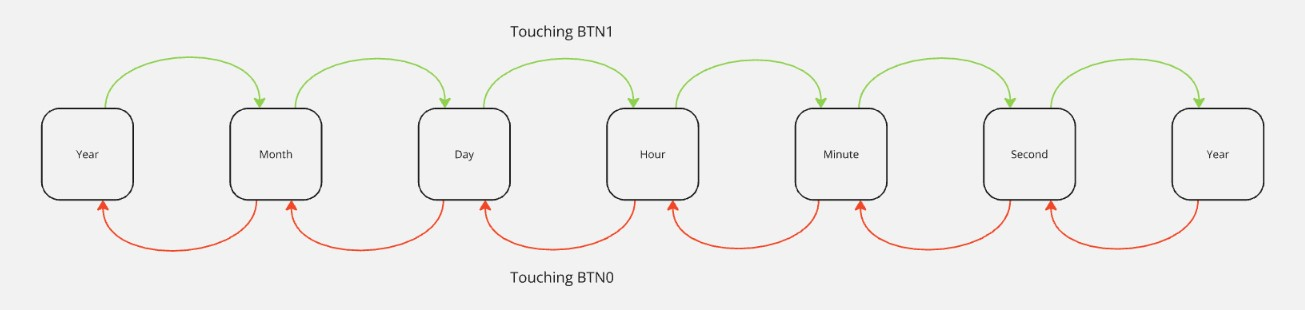
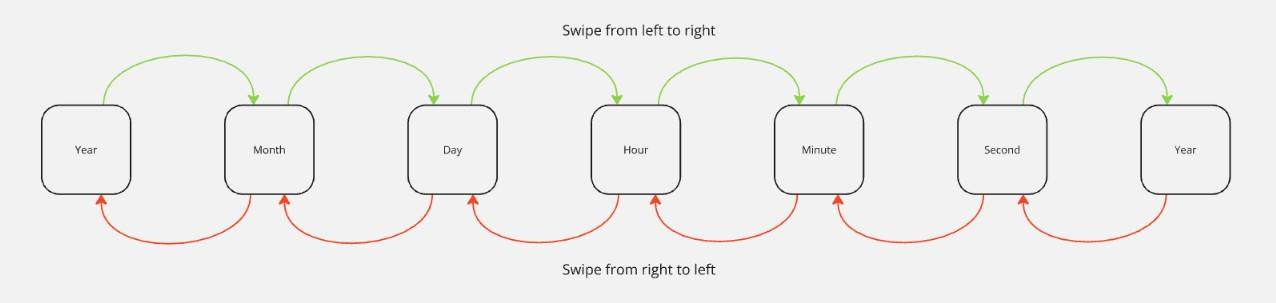
Readme

diff --git a/README.md b/README.md
@@ -2,7 +2,7 @@
 In this project a clock is made that you can set using the capsense sensor. 
 
 ## What has been used
-### Meterial
+### Material
 * [PSoC 6 wifi-bt pioneer kit](https://www.infineon.com/cms/en/product/evaluation-boards/cy8ckit-062-wifi-bt/)
 * [CY8CKIT-028-TFT display shield](https://www.infineon.com/cms/en/product/evaluation-boards/cy8ckit-028-tft/)
 
@@ -10,16 +10,20 @@ In this project a clock is made that you can set using the capsense sensor.
 * [ModusToolbox](https://www.infineon.com/cms/en/design-support/tools/sdk/modustoolbox-software/)
 
 ### Peripheries
-* Capsense sensor (slider, button 0 and button 1)
+* Capsense sensor
+  * Slider
+  * Button0
+  * Button1
 * TFT-display
 * Ambient light sensor
 * RTC
+  * RTC general
+  * RTC alarm interupt
 * Timer
-    * Timer
+    * Timer general
     * Timer interrupt
 
 ## How does it work
-### Time initialize
 In the photo below you see the start screen afther programming the PSoC.
 ![TFT_Start_Screen](Documents/Photo/TFT_Start_Screen.jpg)
 By sliding from the left to the right side of the capsence slider, you select the next time element (eg: From year to month, from month to day). By sliding from the right to the left side of the capsence slider, you can select the previous time element (eg: From month to year, from day to month)
@@ -64,13 +68,16 @@ The values on the TFT-display will be updated and shown.
 When you configured the right time, you can push the user button (sw2). By presing this button the RTC will set himself with this time. And the time will be displayed on the TFT-shield.
 
 Every second a timer will generate an interrupt to update the current time on the TFT-shield. First I wanted to use a RTC interrupt for it, but the TFT-shield does not wanted to work in a RTC interrupt.
+![TFT_Time](Documents/Photo/TFT_Time.jpg)
 
 With the ambient light sensor you can check the light intensity in the room. When the sensor measure a light intesity that is to low (eg: During the night) it will change the color of the text on the TFT-shield from white to red. If the light intesity is hight enough, the text will change again from red to white.
+![TFT_Light_Sensor](Documents/Photo/TFT_Light_Sensor.jpg)
 
 ## Experience
-* The TFT-Shield does not want to work in a RTC interrupt, but will work in a timer interrupt.
+* The TFT-Shield does not want to work in a RTC interrupt, but will work in a timer interrupt. But the RTC interrupt does want to execute the GUI_Clear() function.
 * When there is text displayed on the TFT-shield, and you overwrite this text with a shorter text then the last characters of the longer text will be still displayed.
-* When a new day start it is better to clear the whole TFT-shield
+* When a new day start it is better to clear the whole TFT-shield. Otherwise it is possible that text from the previous day is still displayed.
 
 ## Source
 ModusToolbox documentation
+* [HAL](https://infineon.github.io/mtb-hal-cat1/html/group__group__hal__rtc.html)
